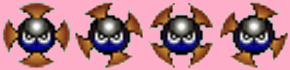
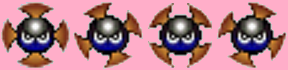
폭발 이미지 교체

diff --git a/Object.cpp b/Object.cpp
@@ -5,7 +5,8 @@
 
 cObject::cObject() : m_Pos(), m_Scale(), m_Direction(1), m_IsDead(false), m_OnPlatform(false), 
 					m_Dir(Vec2(-2.f, 600.f)), m_Blocked {}, m_isRotating(), RotFromDown(false),
-					m_BombThruRotate(false), m_Rotator(nullptr), m_FirstPos_Y(0.f), m_HP(1)
+					m_BombThruRotate(false), m_Rotator(nullptr), m_FirstPos_Y(0.f), m_HP(1),
+					dwID(0), mciOpen(), mciPlay()
 { 
 	m_Dir.Normalize(); 
 	m_curGroupType = (INT)GROUP_TYPE::DEFAULT; 
@@ -119,8 +120,6 @@ void cObject::CollisionCheck(cObject* curObj, int GROUP_TYPE)
 					{
 						cPlayer* otherObj_Player = dynamic_cast<cPlayer*>(otherObj[i]);
 						otherObj_Player->Damage();
-						otherObj_Player->Respawn();
-						otherObj_Player->SetOnPlatform(false);
 					}						
 						break;
 					case (INT)GROUP_TYPE::MONSTER:
@@ -160,8 +159,6 @@ void cObject::CollisionCheck(cObject* curObj, int GROUP_TYPE)
 					{
 						cPlayer* otherObj_Player = dynamic_cast<cPlayer*>(otherObj[i]);
 						otherObj_Player->Damage();
-						otherObj_Player->Respawn();
-						otherObj_Player->SetOnPlatform(false);
 					}
 						break;
 					case (INT)GROUP_TYPE::MONSTER:
@@ -195,8 +192,6 @@ void cObject::CollisionCheck(cObject* curObj, int GROUP_TYPE)
 					{
 						cPlayer* otherObj_Player = dynamic_cast<cPlayer*>(otherObj[i]);
 						otherObj_Player->Damage();
-						otherObj_Player->Respawn();
-						otherObj_Player->SetOnPlatform(false);
 					}
 						break;
 					case (INT)GROUP_TYPE::MONSTER:
@@ -233,8 +228,6 @@ void cObject::CollisionCheck(cObject* curObj, int GROUP_TYPE)
 					{
 						cPlayer* otherObj_Player = dynamic_cast<cPlayer*>(otherObj[i]);
 						otherObj_Player->Damage();
-						otherObj_Player->Respawn();
-						otherObj_Player->SetOnPlatform(false);
 					}
 						break;
 					case (INT)GROUP_TYPE::MONSTER:

diff --git a/Bomb.cpp b/Bomb.cpp
@@ -145,9 +145,9 @@ void cBomb::Render(HDC _hdc)
 	{
 		xStart = 0;
 		w = m_BombImg->GetWidth();
-		h = m_BombImg->GetHeight() / 8;
+		h = m_BombImg->GetHeight() / 11;
 		yStart = h * (m_ExplosionTime++/2);
-		if(m_ExplosionTime > 12)
+		if(m_ExplosionTime > 21)
 			Dead();
 	}
 	else
@@ -174,5 +174,5 @@ void cBomb::SetExplode()
 	if (m_BombImg != NULL)
 		delete m_BombImg;
 	m_BombImg = Image::FromFile((WCHAR*)L"Image/Explosion.png");
-	SetScale(Vec2((float)m_BombImg->GetWidth(), (float)m_BombImg->GetHeight() / 8.f));
+	SetScale(Vec2((float)m_BombImg->GetWidth(), (float)m_BombImg->GetHeight() / 11.f));
 }

diff --git a/Monster_Flying.h b/Monster_Flying.h
@@ -9,7 +9,6 @@ public:
 	cMonster_Flying();
 	virtual ~cMonster_Flying();
 
-
 	virtual bool Update() override;
 	virtual void Render(HDC _hdc) override;
 
